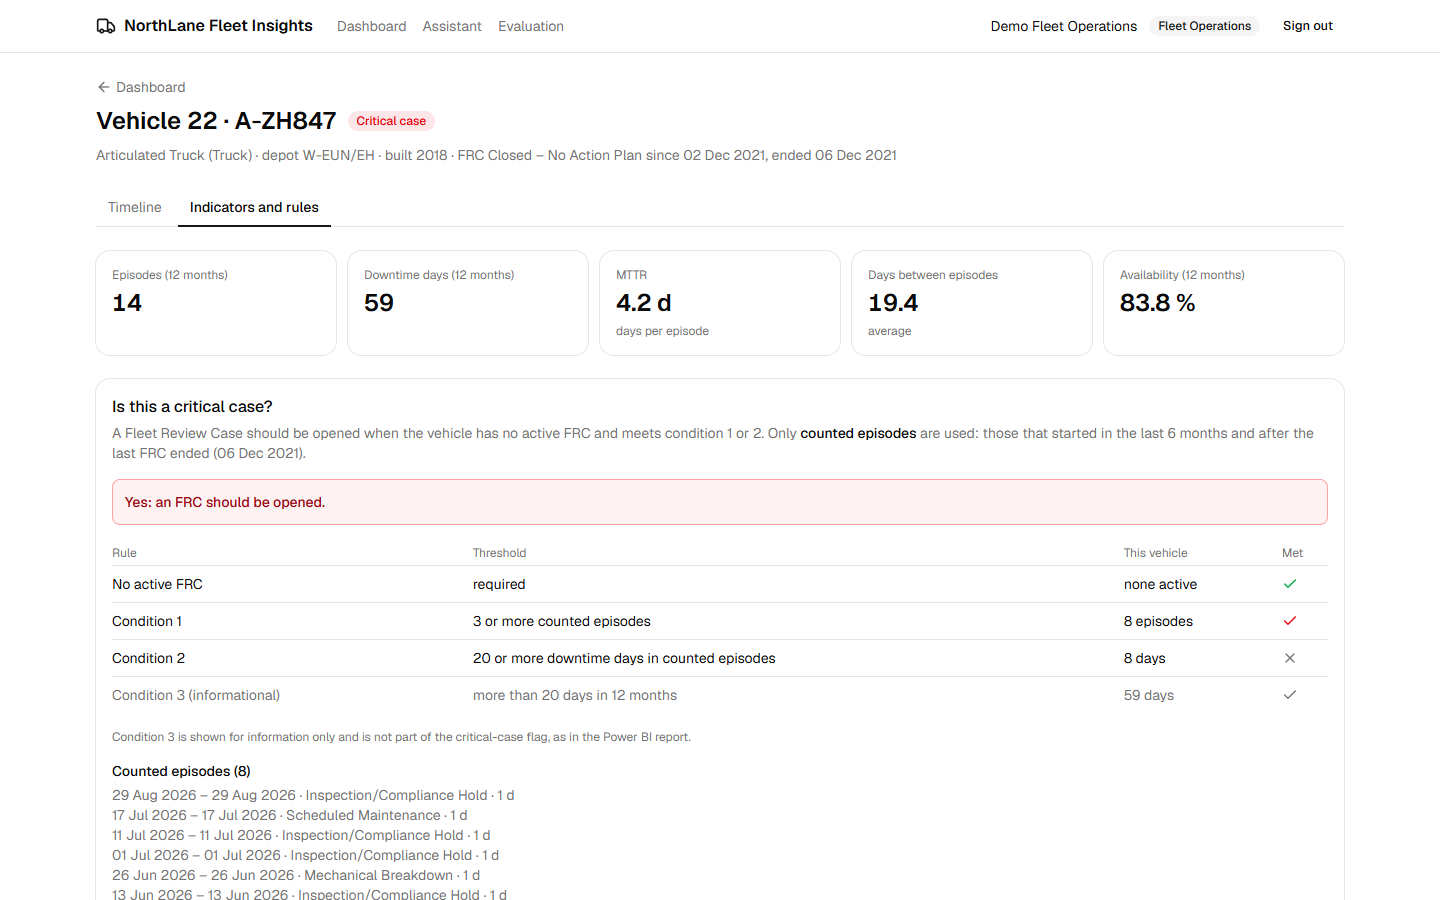
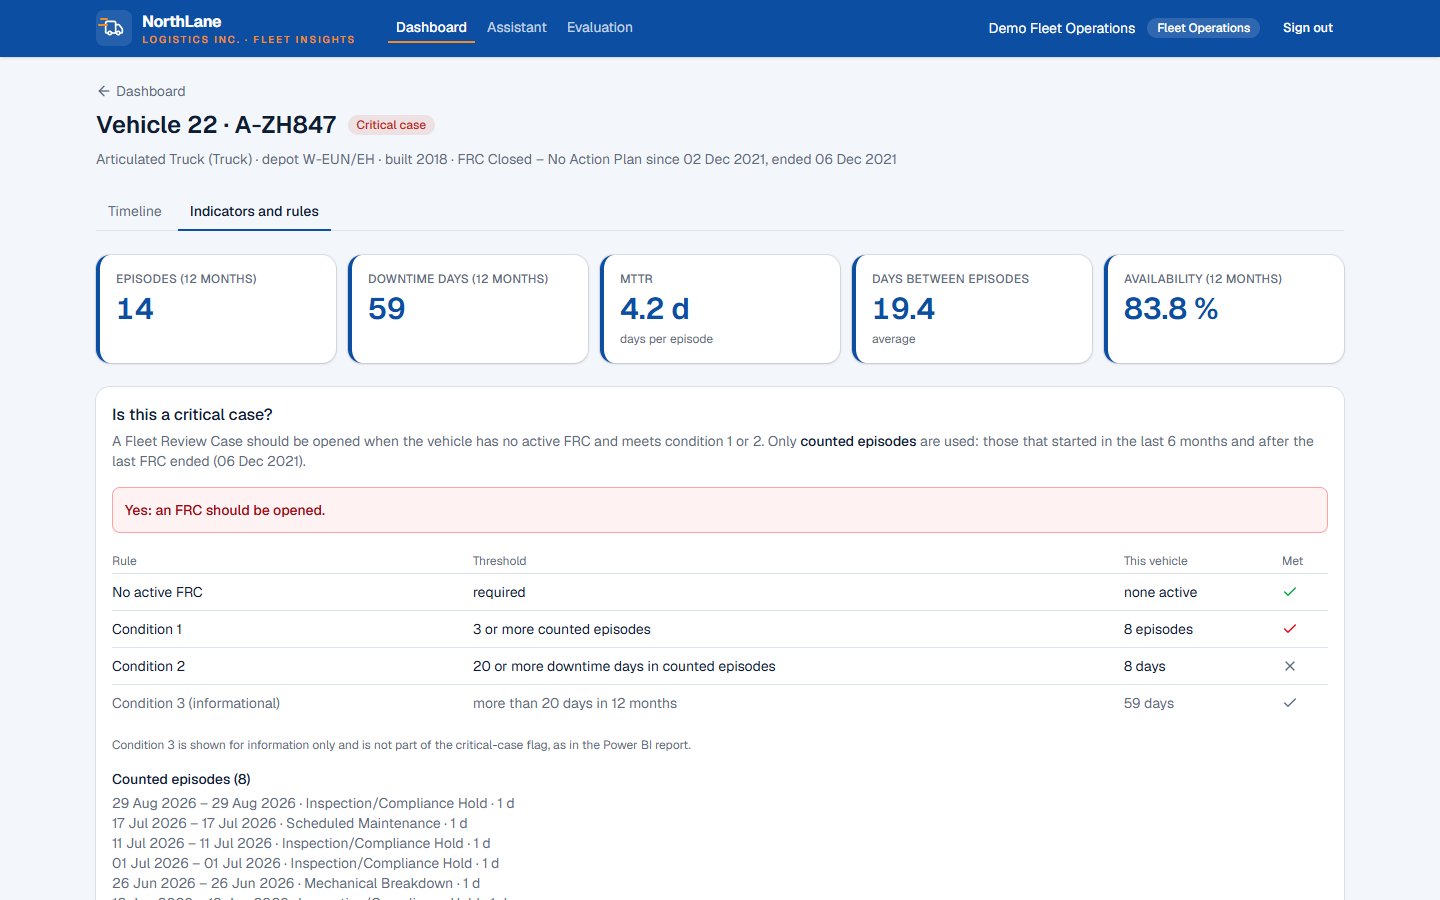
Phase 7: NorthLane visual identity
Brand blue and orange from the original Power BI report, blue header band
with logo and active navigation, branded KPI tiles, tables, login page
and charts; README screenshots refreshed.

diff --git a/components/app/app-header.tsx b/components/app/app-header.tsx
@@ -1,28 +1,24 @@
 import Link from "next/link";
 import { Suspense } from "react";
 import { connection } from "next/server";
-import { Truck } from "lucide-react";
-import { Badge } from "@/components/ui/badge";
 import { Button } from "@/components/ui/button";
 import { getAppUser } from "@/lib/session";
 import { ROLE_LABEL } from "@/lib/format";
 import { signOut } from "@/app/login/actions";
+import { BrandLogo } from "./brand-logo";
+import { NavLinks } from "./nav-links";
 
+// NorthLane blue band, like the header of the original Power BI report.
 export function AppHeader() {
   return (
-    <header className="border-b bg-background">
-      <div className="mx-auto flex w-full max-w-7xl flex-wrap items-center gap-x-6 gap-y-2 px-4 py-3">
-        <Link href="/" className="flex items-center gap-2 font-semibold">
-          <Truck className="size-5 text-primary" aria-hidden />
-          NorthLane Fleet Insights
-        </Link>
-        <nav className="flex items-center gap-4 text-sm">
-          <Link href="/" className="text-muted-foreground hover:text-foreground">Dashboard</Link>
-          <Link href="/assistant" className="text-muted-foreground hover:text-foreground">Assistant</Link>
-          <Link href="/evaluation" className="text-muted-foreground hover:text-foreground">Evaluation</Link>
-        </nav>
+    <header className="bg-brand shadow-sm">
+      <div className="mx-auto flex w-full max-w-7xl flex-wrap items-center gap-x-8 gap-y-2 px-4 py-2.5">
+        <Link href="/" aria-label="NorthLane Fleet Insights, dashboard"><BrandLogo /></Link>
+        <Suspense fallback={null}>
+          <NavLinks />
+        </Suspense>
         <div className="ml-auto">
-          <Suspense fallback={<span className="text-sm text-muted-foreground">…</span>}>
+          <Suspense fallback={<span className="text-sm text-white/70">…</span>}>
             <UserMenu />
           </Suspense>
         </div>
@@ -35,14 +31,14 @@ async function UserMenu() {
   await connection();
   const user = await getAppUser();
   return (
-    <div className="flex items-center gap-3 text-sm">
+    <div className="flex items-center gap-3 text-sm text-white">
       <span className="hidden sm:inline">{user.name}</span>
-      <Badge variant="secondary">
+      <span className="rounded-full bg-white/15 px-2.5 py-0.5 text-xs font-medium">
         {ROLE_LABEL[user.role]}
         {user.organizationCode ? ` · ${user.organizationCode}` : ""}
-      </Badge>
+      </span>
       <form action={signOut}>
-        <Button type="submit" size="sm" variant="ghost">Sign out</Button>
+        <Button type="submit" size="sm" variant="ghost" className="text-white hover:bg-white/15 hover:text-white">Sign out</Button>
       </form>
     </div>
   );

diff --git a/app/globals.css b/app/globals.css
@@ -6,6 +6,10 @@
 
 @theme inline {
   --color-background: var(--background);
+  --color-brand: var(--brand);
+  --color-brand-dark: var(--brand-dark);
+  --color-brand-soft: var(--brand-soft);
+  --color-brand-orange: var(--brand-orange);
   --color-foreground: var(--foreground);
   --font-sans: var(--font-geist-sans);
   --font-mono: var(--font-geist-mono);
@@ -49,38 +53,44 @@
 }
 
 :root {
-  --background: oklch(1 0 0);
-  --foreground: oklch(0.145 0 0);
-  --card: oklch(1 0 0);
-  --card-foreground: oklch(0.145 0 0);
-  --popover: oklch(1 0 0);
-  --popover-foreground: oklch(0.145 0 0);
-  --primary: oklch(0.205 0 0);
-  --primary-foreground: oklch(0.985 0 0);
-  --secondary: oklch(0.97 0 0);
-  --secondary-foreground: oklch(0.205 0 0);
-  --muted: oklch(0.97 0 0);
-  --muted-foreground: oklch(0.556 0 0);
-  --accent: oklch(0.97 0 0);
-  --accent-foreground: oklch(0.205 0 0);
-  --destructive: oklch(0.577 0.245 27.325);
-  --border: oklch(0.922 0 0);
-  --input: oklch(0.922 0 0);
-  --ring: oklch(0.708 0 0);
-  --chart-1: oklch(0.87 0 0);
-  --chart-2: oklch(0.556 0 0);
-  --chart-3: oklch(0.439 0 0);
-  --chart-4: oklch(0.371 0 0);
-  --chart-5: oklch(0.269 0 0);
+  /* NorthLane brand (same blue and orange as the original Power BI report) */
+  --brand: #0b4ea2;
+  --brand-dark: #083b7a;
+  --brand-soft: #e7effa;
+  --brand-orange: #f28c28;
+
+  --background: #f3f6fa;
+  --foreground: #0f1d33;
+  --card: #ffffff;
+  --card-foreground: #0f1d33;
+  --popover: #ffffff;
+  --popover-foreground: #0f1d33;
+  --primary: var(--brand);
+  --primary-foreground: #ffffff;
+  --secondary: var(--brand-soft);
+  --secondary-foreground: var(--brand-dark);
+  --muted: #eef2f7;
+  --muted-foreground: #5b6b82;
+  --accent: var(--brand-soft);
+  --accent-foreground: var(--brand-dark);
+  --destructive: #c2261d;
+  --border: #dbe3ee;
+  --input: #cfd9e6;
+  --ring: #5b8fd6;
+  --chart-1: var(--brand);
+  --chart-2: var(--brand-orange);
+  --chart-3: #14b8a6;
+  --chart-4: #e11d48;
+  --chart-5: #64748b;
   --radius: 0.625rem;
-  --sidebar: oklch(0.985 0 0);
-  --sidebar-foreground: oklch(0.145 0 0);
-  --sidebar-primary: oklch(0.205 0 0);
-  --sidebar-primary-foreground: oklch(0.985 0 0);
-  --sidebar-accent: oklch(0.97 0 0);
-  --sidebar-accent-foreground: oklch(0.205 0 0);
-  --sidebar-border: oklch(0.922 0 0);
-  --sidebar-ring: oklch(0.708 0 0);
+  --sidebar: #ffffff;
+  --sidebar-foreground: #0f1d33;
+  --sidebar-primary: var(--brand);
+  --sidebar-primary-foreground: #ffffff;
+  --sidebar-accent: var(--brand-soft);
+  --sidebar-accent-foreground: var(--brand-dark);
+  --sidebar-border: #dbe3ee;
+  --sidebar-ring: #5b8fd6;
 }
 
 .dark {

diff --git a/app/login/page.tsx b/app/login/page.tsx
@@ -3,15 +3,23 @@ import { Card, CardContent, CardDescription, CardHeader, CardTitle } from "@/com
 import { Separator } from "@/components/ui/separator";
 import { Button } from "@/components/ui/button";
 import { DemoButtons, EmailForm } from "./login-forms";
+import { BrandLogo } from "@/components/app/brand-logo";
 import { signOut } from "./actions";
 
 export default function LoginPage({ searchParams }: PageProps<"/login">) {
   return (
-    <main className="flex flex-1 items-center justify-center bg-muted/40 px-4 py-12">
-      <Card className="w-full max-w-md">
+    <main className="flex flex-1 flex-col">
+      <div className="bg-brand px-4 pt-10 pb-24">
+        <div className="mx-auto flex max-w-md flex-col gap-3">
+          <BrandLogo />
+          <p className="text-sm text-white/80">Vehicle downtime and Fleet Review Cases, with an assistant for your questions.</p>
+        </div>
+      </div>
+      <div className="-mt-16 flex justify-center px-4 pb-12">
+      <Card className="w-full max-w-md shadow-lg">
         <CardHeader>
-          <CardTitle className="text-2xl">NorthLane Fleet Insights</CardTitle>
-          <CardDescription>Vehicle downtime and Fleet Review Cases, with an assistant for your questions.</CardDescription>
+          <CardTitle className="text-2xl text-brand-dark">Fleet Insights</CardTitle>
+          <CardDescription>Sign in to see your fleet, depot or the whole network.</CardDescription>
         </CardHeader>
         <CardContent className="flex flex-col gap-6">
           <Suspense>
@@ -29,6 +37,7 @@ export default function LoginPage({ searchParams }: PageProps<"/login">) {
           </section>
         </CardContent>
       </Card>
+      </div>
     </main>
   );
 }

diff --git a/components/app/kpi-card.tsx b/components/app/kpi-card.tsx
@@ -1,12 +1,13 @@
 import { Card, CardContent } from "@/components/ui/card";
 import { cn } from "@/lib/utils";
 
+// KPI tile in NorthLane style: white card, brand-blue figure; critical tiles get an orange edge and a red figure.
 export function KpiCard({ label, value, hint, tone }: { label: string; value: string; hint?: string; tone?: "critical" }) {
   return (
-    <Card className={cn("gap-1 py-4", tone === "critical" && "border-red-300 bg-red-50 dark:border-red-900 dark:bg-red-950/40")}>
+    <Card className={cn("gap-1 border-l-4 py-4 shadow-sm", tone === "critical" ? "border-l-brand-orange" : "border-l-brand")}>
       <CardContent className="flex flex-col gap-1 px-4">
-        <span className="text-xs text-muted-foreground">{label}</span>
-        <span className={cn("text-2xl font-semibold tabular-nums", tone === "critical" && "text-red-700 dark:text-red-300")}>{value}</span>
+        <span className="text-xs font-medium tracking-wide text-muted-foreground uppercase">{label}</span>
+        <span className={cn("text-3xl font-semibold tabular-nums", tone === "critical" ? "text-red-700" : "text-brand")}>{value}</span>
         {hint && <span className="text-xs text-muted-foreground">{hint}</span>}
       </CardContent>
     </Card>

diff --git a/components/app/nav-links.tsx b/components/app/nav-links.tsx
@@ -1,0 +1,32 @@
+"use client";
+
+import Link from "next/link";
+import { usePathname } from "next/navigation";
+import { cn } from "@/lib/utils";
+
+const LINKS = [
+  { href: "/", label: "Dashboard", match: (p: string) => p === "/" || p.startsWith("/vehicles") },
+  { href: "/assistant", label: "Assistant", match: (p: string) => p.startsWith("/assistant") },
+  { href: "/evaluation", label: "Evaluation", match: (p: string) => p.startsWith("/evaluation") },
+];
+
+// Top navigation on the blue band; the current section is underlined in NorthLane orange.
+export function NavLinks() {
+  const path = usePathname();
+  return (
+    <nav className="flex items-center gap-1 text-sm">
+      {LINKS.map((l) => (
+        <Link
+          key={l.href}
+          href={l.href}
+          className={cn(
+            "border-b-2 px-2 py-1 transition-colors",
+            l.match(path) ? "border-brand-orange font-medium text-white" : "border-transparent text-white/75 hover:text-white",
+          )}
+        >
+          {l.label}
+        </Link>
+      ))}
+    </nav>
+  );
+}

diff --git a/components/app/brand-logo.tsx b/components/app/brand-logo.tsx
@@ -1,0 +1,18 @@
+import { Truck } from "lucide-react";
+
+// NorthLane Logistics mark: truck with orange speed lines, as in the original report header.
+export function BrandLogo({ subtitle = "Fleet Insights" }: { subtitle?: string }) {
+  return (
+    <span className="flex items-center gap-2.5 text-white">
+      <span className="relative flex size-9 items-center justify-center rounded-md bg-white/10">
+        <span className="absolute top-2 left-1 h-0.5 w-2 rounded bg-brand-orange" aria-hidden />
+        <span className="absolute top-3.5 left-0.5 h-0.5 w-2.5 rounded bg-brand-orange" aria-hidden />
+        <Truck className="size-5" aria-hidden />
+      </span>
+      <span className="flex flex-col leading-tight">
+        <span className="text-base font-bold tracking-tight">NorthLane</span>
+        <span className="text-[10px] font-semibold tracking-[0.18em] text-brand-orange uppercase">Logistics Inc. · {subtitle}</span>
+      </span>
+    </span>
+  );
+}

diff --git a/components/assistant/answer-visual.tsx b/components/assistant/answer-visual.tsx
@@ -6,9 +6,9 @@ import { Download } from "lucide-react";
 import { Button } from "@/components/ui/button";
 import type { ChartSpec, Column, DataResult } from "@/lib/assistant/types";
 
-const COLORS = ["#2563eb", "#f59e0b"]; // blue / amber, readable in light and dark mode
+const COLORS = ["#0b4ea2", "#f28c28"]; // blue / amber, readable in light and dark mode
 // Donut slices: distinct hues, then repeated lighter blues for small groups.
-const SLICES = ["#2563eb", "#f59e0b", "#14b8a6", "#e11d48", "#8b5cf6", "#0ea5e9", "#84cc16", "#f97316", "#64748b", "#ec4899"];
+const SLICES = ["#0b4ea2", "#f28c28", "#14b8a6", "#e11d48", "#8b5cf6", "#0ea5e9", "#84cc16", "#f97316", "#64748b", "#ec4899"];
 const nf = new Intl.NumberFormat("en-US", { maximumFractionDigits: 2 });
 
 function cell(value: unknown, kind: Column["kind"]) {

diff --git a/components/ui/table.tsx b/components/ui/table.tsx
@@ -22,7 +22,7 @@ function TableHeader({ className, ...props }: React.ComponentProps<"thead">) {
   return (
     <thead
       data-slot="table-header"
-      className={cn("[&_tr]:border-b", className)}
+      className={cn("bg-brand-soft/70 [&_tr]:border-b", className)}
       {...props}
     />
   )
@@ -69,7 +69,7 @@ function TableHead({ className, ...props }: React.ComponentProps<"th">) {
     <th
       data-slot="table-head"
       className={cn(
-        "h-10 px-2 text-left align-middle font-medium whitespace-nowrap text-foreground [&:has([role=checkbox])]:pr-0",
+        "h-10 px-2 text-left align-middle font-semibold whitespace-nowrap text-brand-dark [&:has([role=checkbox])]:pr-0",
         className
       )}
       {...props}

diff --git a/components/app/vehicle-monthly-chart.tsx b/components/app/vehicle-monthly-chart.tsx
@@ -7,7 +7,7 @@ import type { MonthRow } from "@/lib/data/vehicle";
 // with the Fleet Review Case period shaded red and the last 6 months (critical-case window) shaded grey.
 
 const CATEGORIES = [
-  { key: "Mechanical Breakdown", color: "#2563eb" },
+  { key: "Mechanical Breakdown", color: "#0b4ea2" },
   { key: "Scheduled Maintenance", color: "#14b8a6" },
   { key: "Inspection/Compliance Hold", color: "#f59e0b" },
   { key: "Accident/Collision Damage", color: "#e11d48" },
